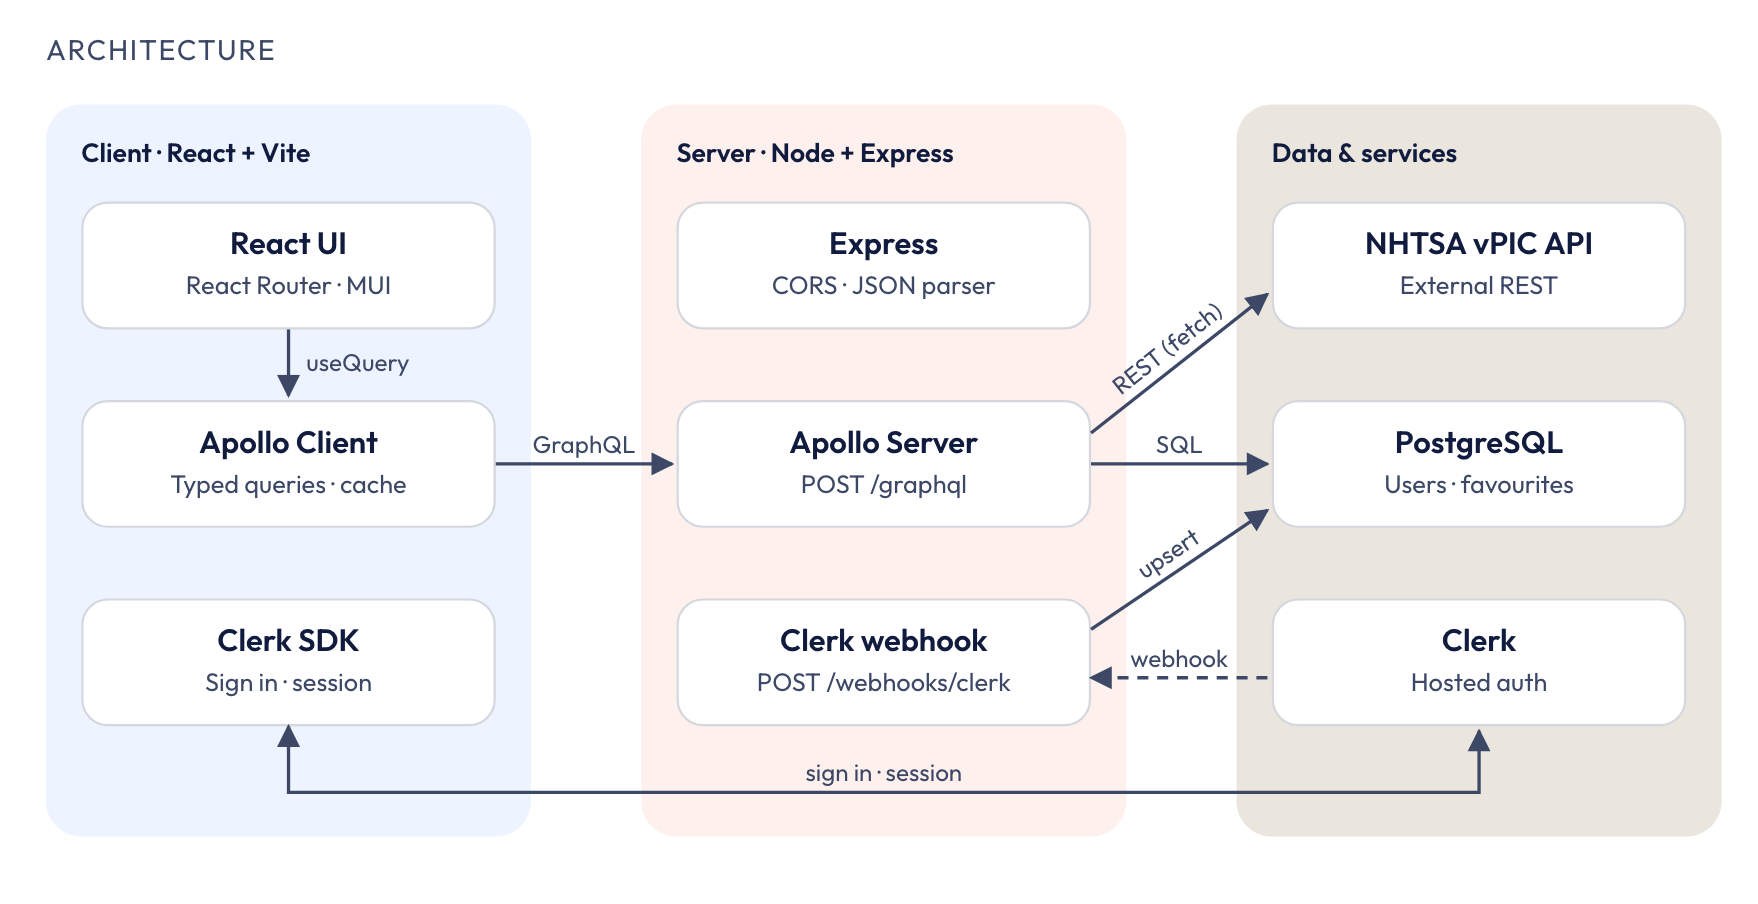
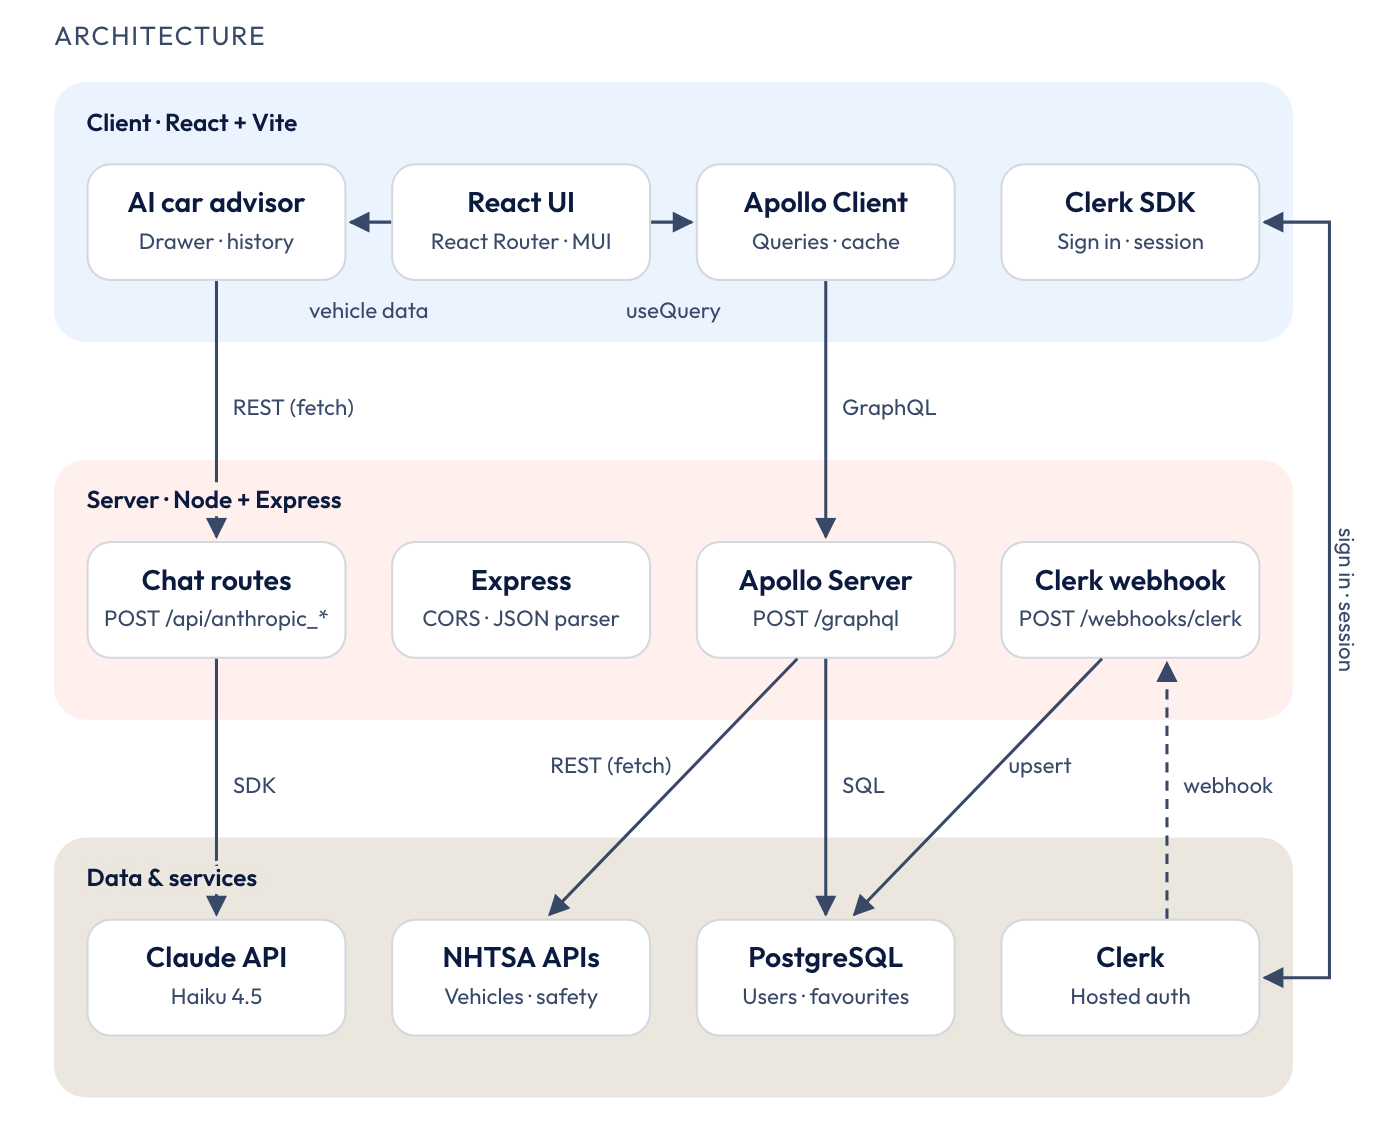
Rewrite README and update architecture diagram
- README covers the AI car advisor, vehicle report, key decisions,
  running locally and Railway deployment, with a test-login note
- New architecture diagram and app screenshot
- Remove the outdated project walkthrough doc

Claude-Session: https://claude.ai/code/session_01Sp4bHdXBNeWxK1NRnm7Rgd

diff --git a/README.md b/README.md
@@ -1,36 +1,83 @@
-## About
+# Car Dossier
 
-- Search for a car manufacturer (e.g. 'Honda'), then drill down into a manufacturer to browse its makes. Data is fetched from a US government API, NHTSA.
-- Clerk handles sign up, sign in and profile settings. Signed-in users can also mark manufacturers as favourites.
+Look up a US vehicle's safety record and ask an AI assistant about it.
 
-## Why I built it
+**Live demo:** https://car-dossier.omarr.dev
 
-To build a full-stack application from separate parts that have to work together to make one working app. The focus was on how those parts connect rather than on the UI, so the app itself is just two pages.
+Clerk auth is in dev mode to enable user to try it without creating a real account.
+Sign up with any email containing `+clerk_test` (e.g. `demo+clerk_test@example.com`) and enter `424242` as the verification code and it'll log you in.
 
-## What I learned
+![App Screenshot](/public/car-dossier-app-ss.png)
 
-- Setting up Node.js and Express from scratch
-- Setting up GraphQL from scratch as a layer on top of a Node/Express server, in a monorepo
-- Integrating an external auth provider (Clerk), with a webhook that saves new users to the database when they sign up
-- Setting up a Postgres database
-- Implementing a BFF pattern that combines data from an external API and a local database
-- Containerising the frontend, backend and database separately
-- Deploying the client and API as Docker containers on Render, connected to a hosted Postgres database on Neon
+## What it does
+
+- Search for a car manufacturer (e.g. 'Honda') and drill down to a model and year. Each car has a report with its recalls, owner complaints and safety ratings. All data comes from NHTSA, the US government's vehicle safety agency.
+- An AI car advisor (Claude) answers questions about the car you're looking at, mainly from that car's NHTSA data. It also suggests a few questions to start with.
+- Clerk handles sign up and sign in. A Clerk webhook adds new users to Postgres, and favourite manufacturers are saved against the user's Clerk ID.
 
 ## Tech stack
 
-- React 19
-- Typescript
-- Vite
-- MUI
-- Apollo Client
-- Node.js
-- Express
-- Apollo Server (GraphQL)
-- PostgreSQL (`pg`)
-- Clerk Auth
-- Docker / Docker Compose
+- **Client:** React, TypeScript, Vite, MUI, Apollo Client
+- **Server:** Node.js, Express, Apollo Server (GraphQL), Anthropic SDK
+- **Data and services:** PostgreSQL (`pg`), NHTSA APIs, Clerk, Claude API
+- **Tooling:** pnpm workspaces, Docker / Docker Compose
+- **Hosting:** Railway (client, API and Postgres), deployed from GitHub
 
-## Aritechture Diagram
+## Architecture
 
-![AritechtureDiagram](/public/artitechture_diagram.png)
+![Architecture diagram](/public/artitechture_diagram.png)
+
+## Key decisions
+
+- **GraphQL as a BFF:** the server combines NHTSA's REST APIs and Postgres into one GraphQL schema, so each page asks for only the data it needs.
+- **Clerk for auth:** pre-built sign-up, sign-in and profile components, plus Google, GitHub and Discord sign-in so users can quickly create an account. For a personal project, that meant not spending time configuring a complex auth system.
+- **AI car advisor limited to one car:** the server puts the car's NHTSA data in the system prompt and tells Claude to only answer questions about that car, so it can't be used as a general chatbot.
+  - **Chat history sent with each request:** the API doesn't remember past messages, so the client sends the recent conversation every time.
+  - **Temperature 0.7:** for more consistent, less random answers.
+  - **No web search:** keeps answers focused on the car's NHTSA data, and avoids per-search costs on a public endpoint that doesn't require sign-in.
+
+## Running it locally
+
+You'll need Node.js 22, pnpm and Docker, plus a Clerk publishable key (the app won't load without one).
+
+An Anthropic API key is optional. Without it, everything works except the AI car advisor. Both keys go in the `.env.local` files from step 2.
+
+1. Install dependencies:
+
+   ```bash
+   pnpm install
+   ```
+
+2. Set up environment variables. Each `.example.env` lists what's needed:
+
+   ```bash
+   cp .example.env .env                                         # Docker Compose (Postgres)
+   cp src/apps/server/.example.env src/apps/server/.env.local   # API: database URL (localhost:5431 with Docker), Anthropic key, Clerk webhook secret
+   cp src/apps/client/.example.env src/apps/client/.env.local   # Client: Clerk publishable key, server port
+   ```
+
+3. Start Postgres:
+
+   ```bash
+   docker compose -f docker-compose.dev.yml up postgres
+   ```
+
+4. Run the client and server together:
+
+   ```bash
+   pnpm dev
+   ```
+
+   The client runs on http://localhost:5173.
+
+## Project structure
+
+```
+src/apps/client   React app
+src/apps/server   Express + GraphQL API, AI advisor routes, Clerk webhook
+init-db           SQL that runs when the Postgres container is first created
+```
+
+## Deployment
+
+The client, API and Postgres run as three services on Railway. Each push to `master` deploys automatically from GitHub.
